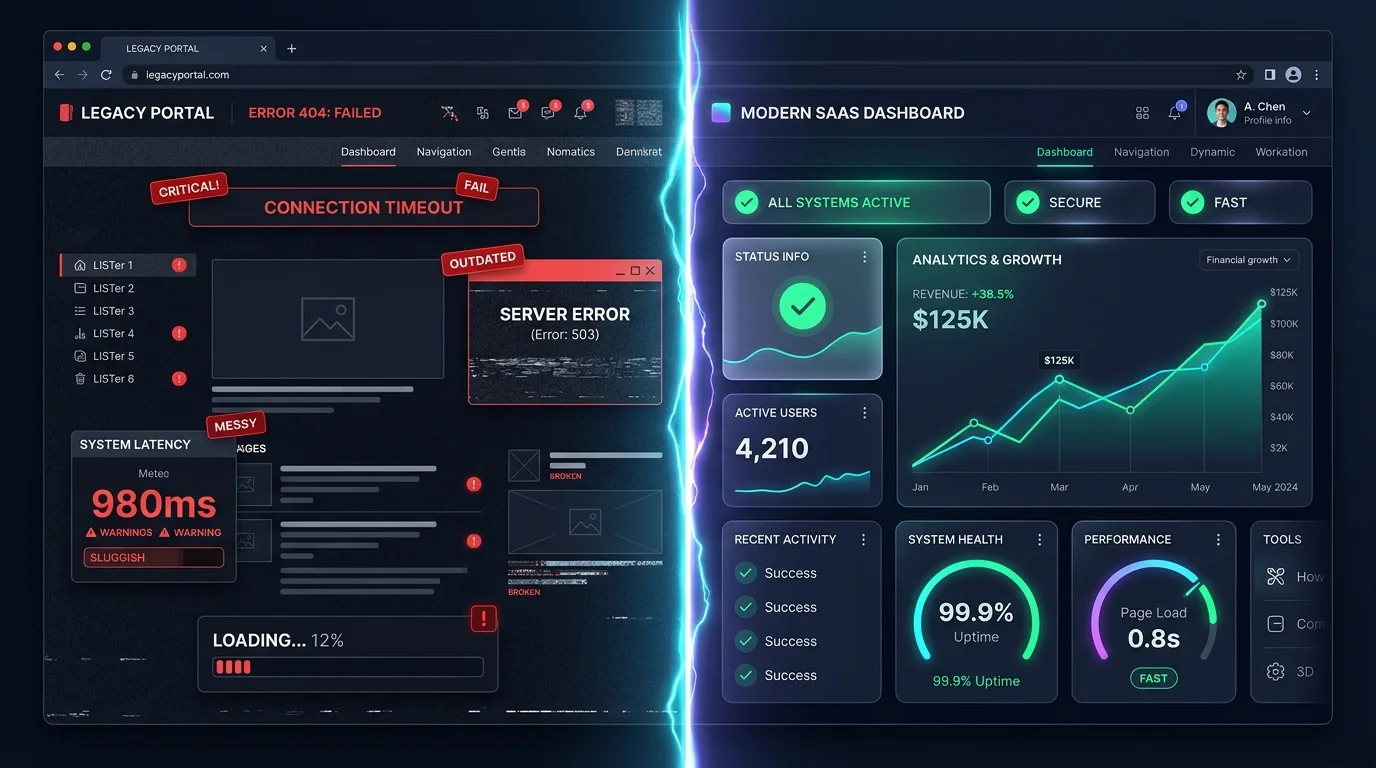
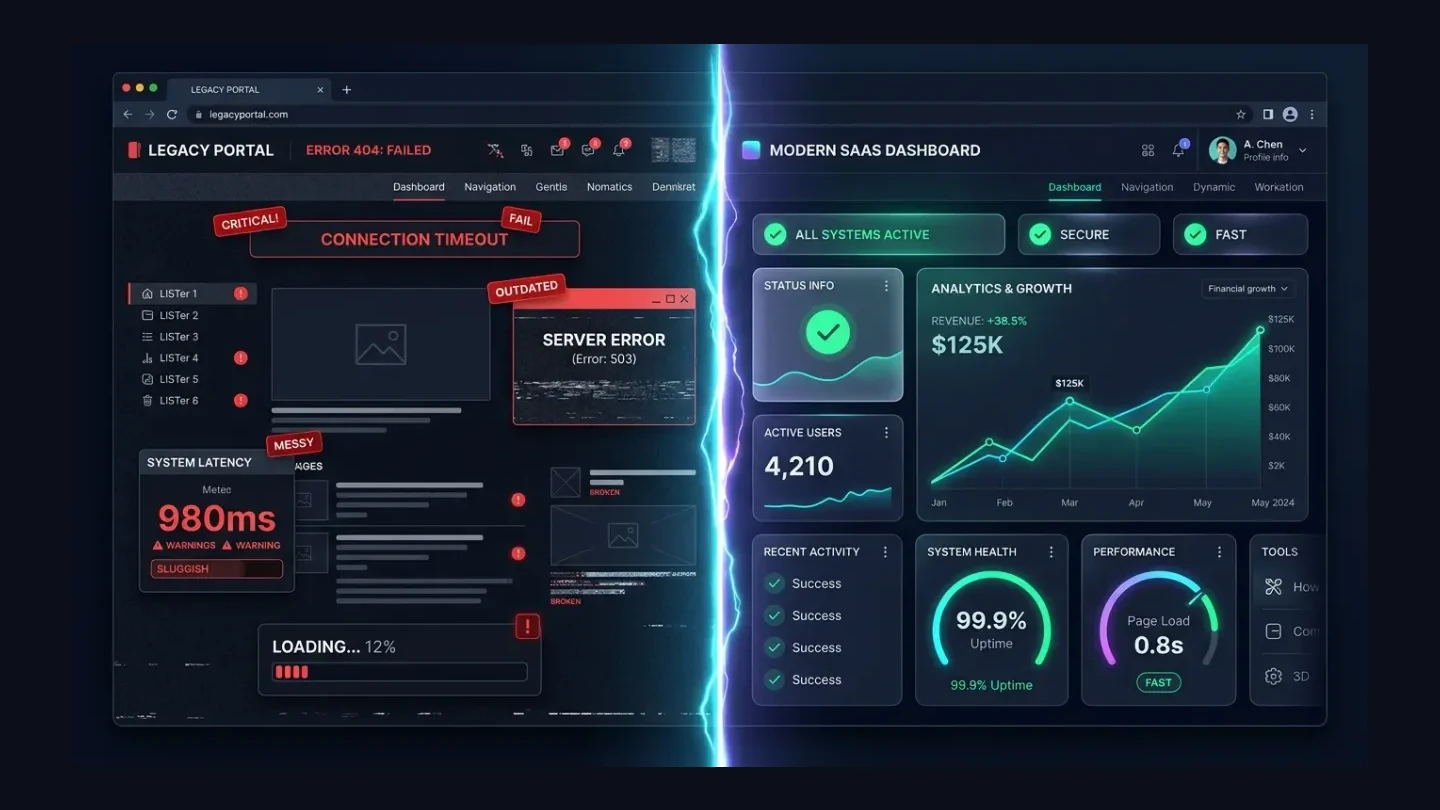
fix(blog): frame images with safe padding and upload to Cloudinary to fix image crop/visibility

diff --git a/scripts/optimize-and-upload-blog-images.js b/scripts/optimize-and-upload-blog-images.js
@@ -1,0 +1,168 @@
+const dns = require('dns');
+dns.setServers(['8.8.8.8', '1.1.1.1']);
+
+const fs = require('fs');
+const path = require('path');
+const sharp = require('sharp');
+const cloudinary = require('cloudinary').v2;
+const { MongoClient } = require('mongodb');
+const matter = require('gray-matter');
+
+cloudinary.config({
+  cloud_name: 'hkfw0tt7',
+  api_key: '621912895596784',
+  api_secret: 'Rot0fI-eDy70eLseXcC1_d70RgQ'
+});
+
+const mongoUri = "mongodb+srv://admin:DdGk%24Gg3yB8g-45@cluster0.lvnxfa7.mongodb.net/joydigital?appName=Cluster0";
+
+const blogItems = [
+  {
+    slug: '5-website-mistakes-killing-business-growth',
+    filename: '5-website-mistakes-killing-business-growth.webp',
+    publicId: '5-website-mistakes-killing-business-growth-v2'
+  },
+  {
+    slug: 'is-a-slow-website-costing-you-sales-web-speed-revenue',
+    filename: 'is-slow-website-costing-you-sales.webp',
+    publicId: 'is-slow-website-costing-you-sales-v2'
+  },
+  {
+    slug: 'outgrown-wix-or-wordpress-custom-web-architecture',
+    filename: 'outgrown-wix-or-wordpress-custom-architecture.webp',
+    publicId: 'outgrown-wix-or-wordpress-custom-architecture-v2'
+  },
+  {
+    slug: 'how-to-attract-international-clients-global-seo-strategy',
+    filename: 'global-seo-international-clients-strategy.webp',
+    publicId: 'global-seo-international-clients-strategy-v2'
+  }
+];
+
+async function processAndUpload() {
+  const blogDir = path.join(process.cwd(), 'public', 'assets', 'images', 'blog');
+  const uploadedUrls = {};
+
+  console.log("Step 1: Adding safe framing padding to images so UI elements never get cut off...");
+
+  for (const item of blogItems) {
+    const inputPath = path.join(blogDir, item.filename);
+    const outputPath = path.join(blogDir, 'framed-' + item.filename);
+
+    if (!fs.existsSync(inputPath)) {
+      console.error("File not found:", inputPath);
+      continue;
+    }
+
+    const inputBuffer = fs.readFileSync(inputPath);
+
+    // Read metadata
+    const targetW = 1440;
+    const targetH = 810; // exact 16:9
+
+    // Scale main image to fit safely with ~8% margin
+    const innerW = Math.round(targetW * 0.90);
+    const innerH = Math.round(targetH * 0.90);
+
+    const resizedBuffer = await sharp(inputBuffer)
+      .resize(innerW, innerH, { fit: 'inside' })
+      .toBuffer();
+
+    // Composite onto dark canvas matching Joy Digital theme #0b0f19
+    const framedBuffer = await sharp({
+      create: {
+        width: targetW,
+        height: targetH,
+        channels: 4,
+        background: { r: 11, g: 15, b: 25, alpha: 1 }
+      }
+    })
+    .composite([
+      {
+        input: resizedBuffer,
+        gravity: 'center'
+      }
+    ])
+    .webp({ quality: 90 })
+    .toBuffer();
+
+    // Overwrite the local file with the framed buffer
+    fs.writeFileSync(inputPath, framedBuffer);
+
+    console.log(`✅ Framed & padded: ${item.filename}`);
+
+    // Step 2: Upload to Cloudinary
+    console.log(`Uploading ${item.filename} to Cloudinary...`);
+    const uploadRes = await new Promise((resolve, reject) => {
+      cloudinary.uploader.upload_stream(
+        {
+          folder: 'joydigital/blog',
+          public_id: item.publicId,
+          overwrite: true,
+          resource_type: 'image',
+          format: 'webp'
+        },
+        (error, result) => {
+          if (error) reject(error);
+          else resolve(result);
+        }
+      ).end(framedBuffer);
+    });
+
+    console.log(`🚀 Uploaded to Cloudinary: ${uploadRes.secure_url}`);
+    uploadedUrls[item.slug] = uploadRes.secure_url;
+  }
+
+  // Step 3: Update local Markdown files with Cloudinary URL
+  console.log("\nStep 3: Updating local markdown files with secure Cloudinary URLs...");
+  for (const item of blogItems) {
+    const mdPath = path.join(process.cwd(), 'content', 'blog', `${item.slug}.md`);
+    if (!fs.existsSync(mdPath)) continue;
+
+    let content = fs.readFileSync(mdPath, 'utf-8');
+    const cloudUrl = uploadedUrls[item.slug];
+    if (cloudUrl) {
+      // replace image, ogImage, twitterImage
+      content = content.replace(/^image:\s*.*$/m, `image: "${cloudUrl}"`);
+      content = content.replace(/^ogImage:\s*.*$/m, `ogImage: "${cloudUrl}"`);
+      content = content.replace(/^twitterImage:\s*.*$/m, `twitterImage: "${cloudUrl}"`);
+      fs.writeFileSync(mdPath, content, 'utf-8');
+      console.log(`Updated markdown: ${item.slug}.md`);
+    }
+  }
+
+  // Step 4: Update live MongoDB Atlas database
+  console.log("\nStep 4: Updating live MongoDB Atlas database with new image URLs...");
+  const client = new MongoClient(mongoUri);
+  try {
+    await client.connect();
+    const db = client.db('joydigital');
+    const blogsCol = db.collection('blogs');
+
+    for (const item of blogItems) {
+      const cloudUrl = uploadedUrls[item.slug];
+      if (!cloudUrl) continue;
+
+      await blogsCol.updateOne(
+        { slug: item.slug },
+        {
+          $set: {
+            image: cloudUrl,
+            ogImage: cloudUrl,
+            twitterImage: cloudUrl,
+            updatedAt: new Date()
+          }
+        }
+      );
+      console.log(`✅ Live MongoDB updated for slug: ${item.slug} -> ${cloudUrl}`);
+    }
+  } catch (err) {
+    console.error("MongoDB update error:", err);
+  } finally {
+    try { await client.close(); } catch (_) {}
+  }
+
+  console.log("\n🎉 ALL 4 BLOG IMAGES PROCESSED, FRAMED, UPLOADED TO CLOUDINARY AND UPDATED IN MONGODB!");
+}
+
+processAndUpload().catch(console.error);

diff --git a/content/blog/outgrown-wix-or-wordpress-custom-web-architecture.md b/content/blog/outgrown-wix-or-wordpress-custom-web-architecture.md
@@ -5,7 +5,7 @@ date: '2026-11-07'
 lastUpdatedDate: '2026-11-07'
 category: Web Architecture & Modernization
 author: Joy Digital Team
-image: /assets/images/blog/outgrown-wix-or-wordpress-custom-architecture.webp
+image: "https://res.cloudinary.com/hkfw0tt7/image/upload/v1794057259/joydigital/blog/outgrown-wix-or-wordpress-custom-architecture-v2.webp"
 imageAlt: WordPress vs Custom Web Development architecture comparison for high growth businesses
 imageCaption: Legacy CMS limitations versus scalable modern custom full-stack architecture
 tags:
@@ -53,10 +53,10 @@ faqs:
     answer: "When managed by experienced technical engineers, an architectural migration strengthens SEO. By preserving existing URL slugs, setting up flawless 301 redirect maps, and drastically improving Core Web Vitals speed scores, organic search rankings and impressions typically surge post-migration."
 ogTitle: Outgrown Wix or WordPress? Why Custom Web Architecture Wins
 ogDescription: Struggling with slow speeds and plugin crashes on WordPress or Wix? Learn why custom Next.js web architecture drives superior growth and security.
-ogImage: /assets/images/blog/outgrown-wix-or-wordpress-custom-architecture.webp
+ogImage: "https://res.cloudinary.com/hkfw0tt7/image/upload/v1794057259/joydigital/blog/outgrown-wix-or-wordpress-custom-architecture-v2.webp"
 twitterTitle: Outgrown Wix or WordPress? Why Custom Web Architecture Wins
 twitterDescription: Struggling with slow speeds and plugin crashes on WordPress or Wix? Learn why custom Next.js web architecture drives superior growth and security.
-twitterImage: /assets/images/blog/outgrown-wix-or-wordpress-custom-architecture.webp
+twitterImage: "https://res.cloudinary.com/hkfw0tt7/image/upload/v1794057259/joydigital/blog/outgrown-wix-or-wordpress-custom-architecture-v2.webp"
 status: Published
 seoScore: 98
 ---

diff --git a/content/blog/how-to-attract-international-clients-global-seo-strategy.md b/content/blog/how-to-attract-international-clients-global-seo-strategy.md
@@ -5,7 +5,7 @@ date: '2026-11-07'
 lastUpdatedDate: '2026-11-07'
 category: International SEO & Growth
 author: Joy Digital Team
-image: /assets/images/blog/global-seo-international-clients-strategy.webp
+image: "https://res.cloudinary.com/hkfw0tt7/image/upload/v1794057266/joydigital/blog/global-seo-international-clients-strategy-v2.webp"
 imageAlt: Global SEO and international web strategy connecting businesses to global enterprise clients
 imageCaption: Strategic global search optimization and international technical web infrastructure
 tags:
@@ -53,10 +53,10 @@ faqs:
     answer: Incorporate international trust badges (ISO certifications, export accreditations, international port shipping partners), dynamic currency converters, multi-time-zone inquiry scheduling, and frictionless B2B quotation request workflows alongside verified case studies.
 ogTitle: How to Attract International Clients With Global SEO Strategy
 ogDescription: Expand into high-ticket markets like the USA, UAE, & Europe. Discover the technical Global SEO blueprint to attract and convert international buyers.
-ogImage: /assets/images/blog/global-seo-international-clients-strategy.webp
+ogImage: "https://res.cloudinary.com/hkfw0tt7/image/upload/v1794057266/joydigital/blog/global-seo-international-clients-strategy-v2.webp"
 twitterTitle: How to Attract International Clients With Global SEO Strategy
 twitterDescription: Expand into high-ticket markets like the USA, UAE, & Europe. Discover the technical Global SEO blueprint to attract and convert international buyers.
-twitterImage: /assets/images/blog/global-seo-international-clients-strategy.webp
+twitterImage: "https://res.cloudinary.com/hkfw0tt7/image/upload/v1794057266/joydigital/blog/global-seo-international-clients-strategy-v2.webp"
 status: Published
 seoScore: 98
 ---

diff --git a/content/blog/5-website-mistakes-killing-business-growth.md b/content/blog/5-website-mistakes-killing-business-growth.md
@@ -5,7 +5,7 @@ date: '2026-11-07'
 lastUpdatedDate: '2026-11-07'
 category: Web Design & SEO
 author: Joy Digital Team
-image: /assets/images/blog/5-website-mistakes-killing-business-growth.webp
+image: "https://res.cloudinary.com/hkfw0tt7/image/upload/v1794057255/joydigital/blog/5-website-mistakes-killing-business-growth-v2.webp"
 imageAlt: 5 Website Mistakes Killing Your Business Growth and Conversion Optimization
 imageCaption: Strategic business website audit and common conversion pitfalls
 tags:
@@ -53,10 +53,10 @@ faqs:
     answer: Growing businesses should perform a technical and conversion audit every 6 months. High-volume B2B lead generation portals and e-commerce websites should continuously monitor Core Web Vitals, user session drop-offs, and form funnel conversion analytics quarterly.
 ogTitle: 5 Website Mistakes Killing Business Growth & How to Fix Them
 ogDescription: Is your website failing to generate leads? Discover the 5 critical web design and conversion mistakes slowing your growth and learn how to fix them.
-ogImage: /assets/images/blog/5-website-mistakes-killing-business-growth.webp
+ogImage: "https://res.cloudinary.com/hkfw0tt7/image/upload/v1794057255/joydigital/blog/5-website-mistakes-killing-business-growth-v2.webp"
 twitterTitle: 5 Website Mistakes Killing Business Growth & How to Fix Them
 twitterDescription: Is your website failing to generate leads? Discover the 5 critical web design and conversion mistakes slowing your growth and learn how to fix them.
-twitterImage: /assets/images/blog/5-website-mistakes-killing-business-growth.webp
+twitterImage: "https://res.cloudinary.com/hkfw0tt7/image/upload/v1794057255/joydigital/blog/5-website-mistakes-killing-business-growth-v2.webp"
 status: Published
 seoScore: 98
 ---

diff --git a/content/blog/is-a-slow-website-costing-you-sales-web-speed-revenue.md b/content/blog/is-a-slow-website-costing-you-sales-web-speed-revenue.md
@@ -5,7 +5,7 @@ date: '2026-11-07'
 lastUpdatedDate: '2026-11-07'
 category: Technical SEO & Performance
 author: Joy Digital Team
-image: /assets/images/blog/is-slow-website-costing-you-sales.webp
+image: "https://res.cloudinary.com/hkfw0tt7/image/upload/v1794057257/joydigital/blog/is-slow-website-costing-you-sales-v2.webp"
 imageAlt: Website speed optimization impact on revenue and Core Web Vitals performance
 imageCaption: Real-time web performance metrics and conversion rate correlation
 tags:
@@ -53,10 +53,10 @@ faqs:
     answer: "An optimized commercial website should achieve an initial server response (TTFB) under 200ms and display its main interactive above-the-fold content within 0.8 to 1.5 seconds on standard mobile 4G/5G connections."
 ogTitle: Is a Slow Website Costing You Sales? Web Speed & Revenue Guide
 ogDescription: Slow load times kill rankings and revenue. Discover how 1-second delays cost you sales and get a free website speed optimization audit today.
-ogImage: /assets/images/blog/is-slow-website-costing-you-sales.webp
+ogImage: "https://res.cloudinary.com/hkfw0tt7/image/upload/v1794057257/joydigital/blog/is-slow-website-costing-you-sales-v2.webp"
 twitterTitle: Is a Slow Website Costing You Sales? Web Speed & Revenue Guide
 twitterDescription: Slow load times kill rankings and revenue. Discover how 1-second delays cost you sales and get a free website speed optimization audit today.
-twitterImage: /assets/images/blog/is-slow-website-costing-you-sales.webp
+twitterImage: "https://res.cloudinary.com/hkfw0tt7/image/upload/v1794057257/joydigital/blog/is-slow-website-costing-you-sales-v2.webp"
 status: Published
 seoScore: 98
 ---
